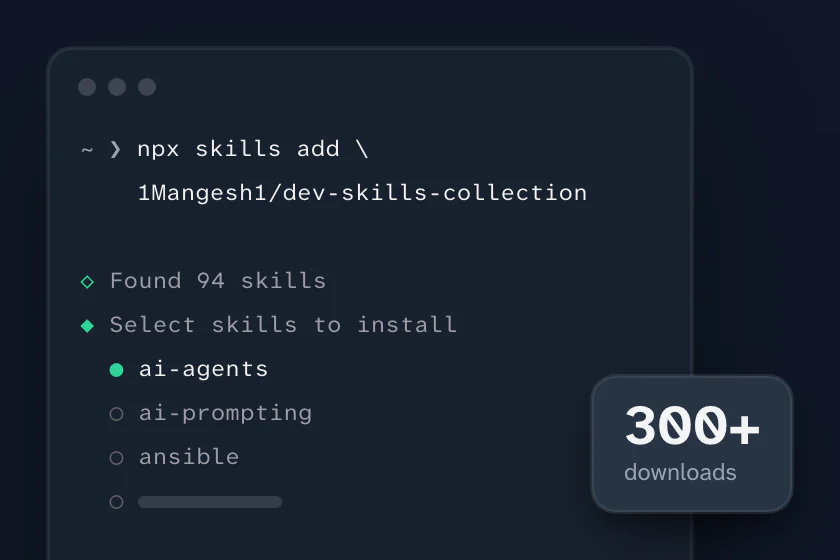
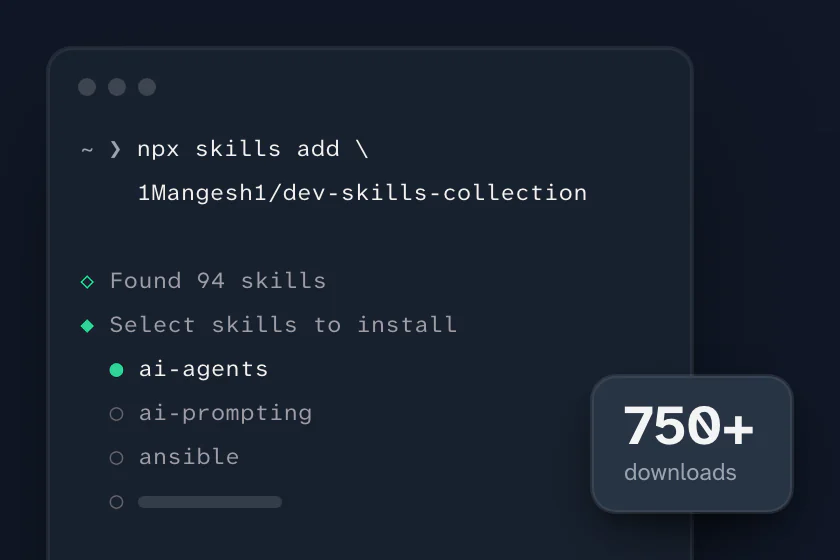
fix(work): update the Claude Skills download count to 750+
On 2026-11-12 the listing at skills.sh showed 775 total installs: 599 for dev-skills-collection, 172 for hipaa-guardian and 4 for deslop. The portfolio entry, the resume data and the project still said 300+.

The resume PDF is not regenerated. The entry is marked pdfPending, so the sync check does not compare it.

Changed region(s): [[0.7429, 0.7286, 0.8976, 0.7893]]

diff --git a/design/stageshow/claude-skills/index.tsx b/design/stageshow/claude-skills/index.tsx
@@ -55,7 +55,7 @@ export default function ClaudeSkills() {
           </Window>
 
           <Card lift gap={10} className="cs-stat">
-            <Text className="cs-count">300+</Text>
+            <Text className="cs-count">750+</Text>
             <Text className="cs-unit">downloads</Text>
           </Card>
         </>

diff --git a/design/stageshow/claude-skills/REHEARSAL.md b/design/stageshow/claude-skills/REHEARSAL.md
@@ -40,7 +40,7 @@ Assumptions:
 Unresolved:
 
 - `mb-oci-homelab-iac` is also a terminal with a card on the lower right. In date order it sits directly above this still in the portfolio grid. This still differs on purpose: a tall terminal, a picker, and a small count in place of a list panel. Look at the two in the real grid before you ship them.
-- The entry says "300+ downloads". On 2026-11-12 the listing shows 775 total installs for the account and 599 for this repo. The still follows the entry. If the entry changes, change `300+` in `index.tsx` and film again.
+- On 2026-11-12 the listing at skills.sh showed 775 total installs for the account: 599 for this repo, 172 for hipaa-guardian and 4 for deslop. The entry and the still say "750+ downloads" from that date on. Before that they said "300+".
 
 Not checked:
 

diff --git a/src/content/portfolio/claude-skills.md b/src/content/portfolio/claude-skills.md
@@ -1,6 +1,6 @@
 ---
 title: "Claude Skills collection"
-description: "A collection of reusable Claude Skills with 300+ downloads."
+description: "A collection of reusable Claude Skills with 750+ downloads."
 image: "/images/portfolio/claude-skills.webp"
 imageDark: "/images/portfolio/claude-skills-dark.webp"
 tech: ["Claude Skills"]
